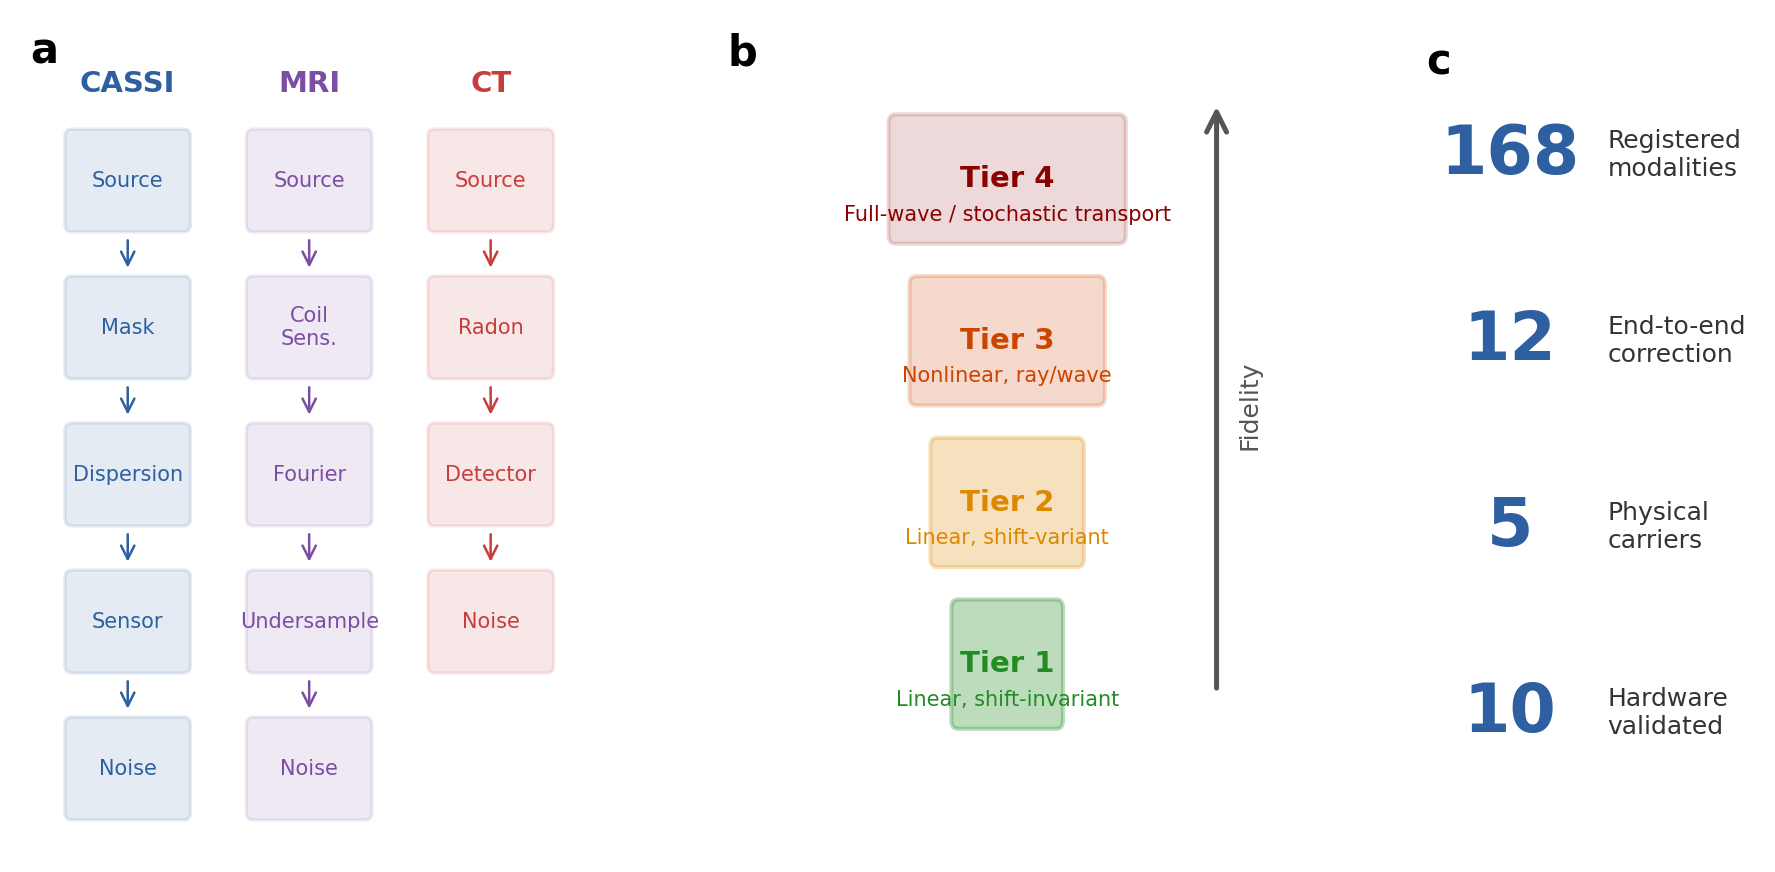
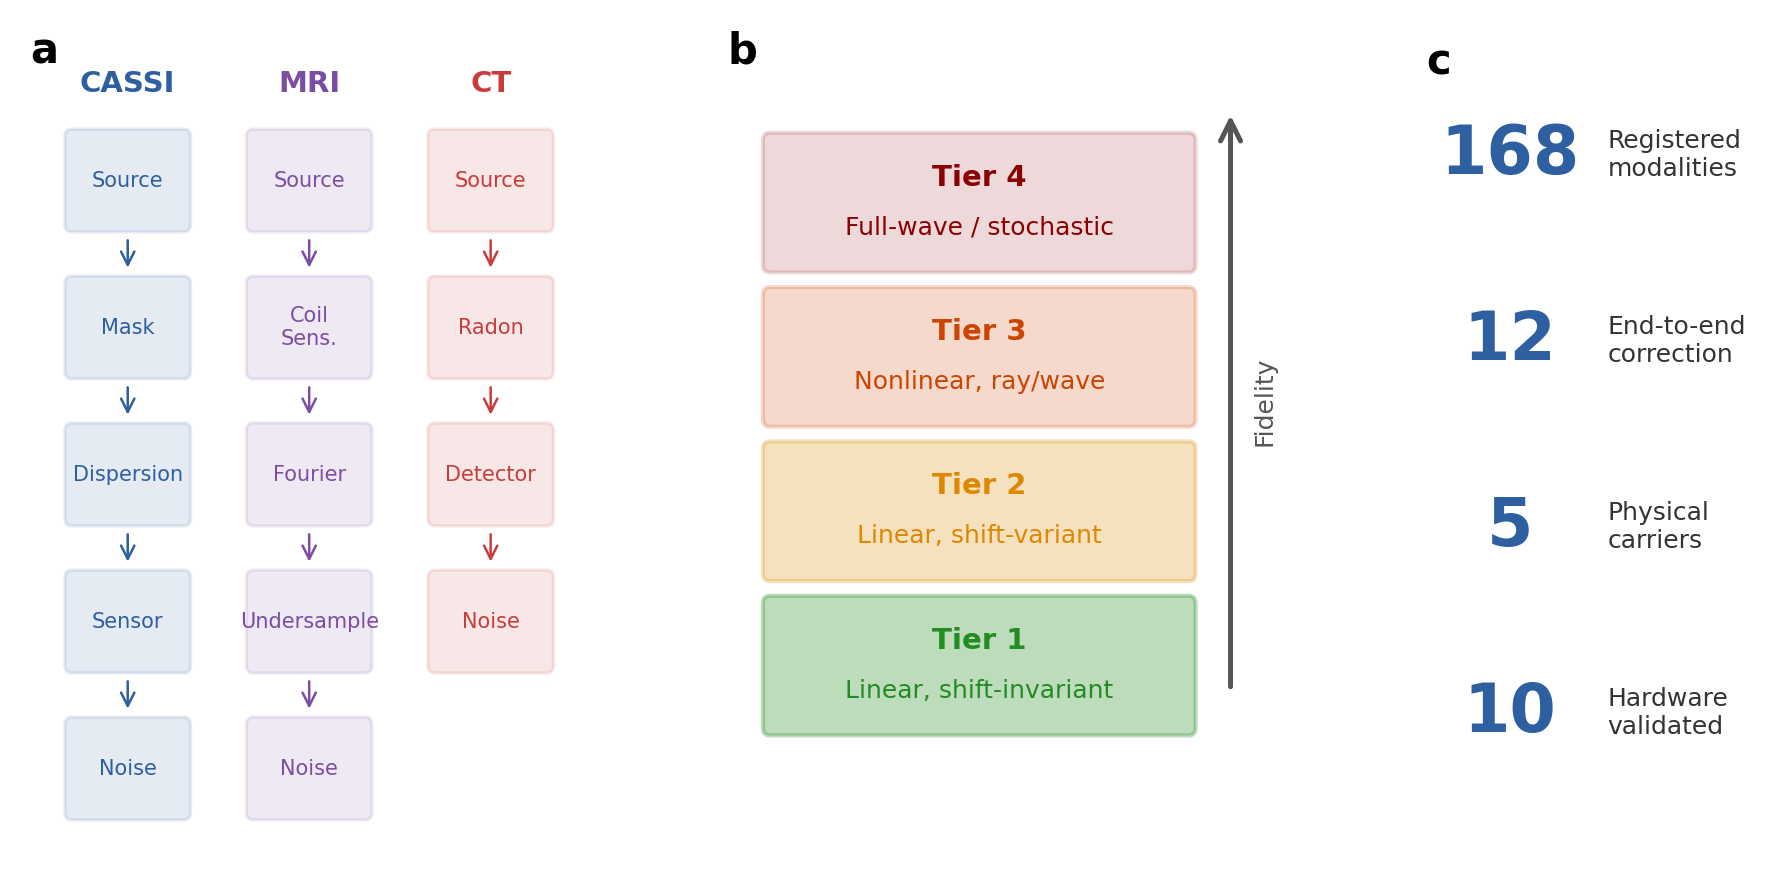
fix(fig2): uniform wide tier boxes so descriptions stay inside panel b

Changed region(s): [[0.4028, 0.1239, 0.7127, 0.867]]

diff --git a/papers/pwm_flagship/scripts/generate_all_figures.py b/papers/pwm_flagship/scripts/generate_all_figures.py
@@ -183,37 +183,43 @@ def fig2_operatorgraph():
                               arrowprops=dict(arrowstyle='<-', color=color,
                                               lw=0.6, mutation_scale=8))
 
-    # Panel b: Physics Fidelity Ladder
+    # Panel b: Physics Fidelity Ladder — uniform wide boxes, text fully inside
     ax_b = fig.add_subplot(gs[1])
     ax_b.set_xlim(0, 4)
-    ax_b.set_ylim(0, 5)
+    ax_b.set_ylim(0, 5.5)
     ax_b.axis('off')
-    ax_b.text(0, 4.8, 'b', fontsize=10, fontweight='bold')
+    ax_b.text(0, 5.3, 'b', fontsize=10, fontweight='bold')
 
     tiers = [
-        (4, 'Tier 4', 'Full-wave / stochastic transport', '#8B0000', 0.3),
+        (4, 'Tier 4', 'Full-wave / stochastic', '#8B0000', 0.3),
         (3, 'Tier 3', 'Nonlinear, ray/wave', '#CC4400', 0.4),
         (2, 'Tier 2', 'Linear, shift-variant', '#DD8800', 0.5),
         (1, 'Tier 1', 'Linear, shift-invariant', '#228B22', 0.6),
     ]
 
+    box_w = 3.0   # uniform width — wide enough for longest description
+    box_h = 0.85  # tall enough for two text lines
+    x_center = 1.8
+
     for tier_num, name, desc, color, alpha in tiers:
-        y = tier_num * 1.0 + 0.1
-        w = 0.4 + tier_num * 0.3
-        box = FancyBboxPatch((2.0 - w/2, y - 0.35), w, 0.7,
+        y = tier_num * 1.05 + 0.15
+        box = FancyBboxPatch((x_center - box_w / 2, y - box_h / 2), box_w, box_h,
                              boxstyle="round,pad=0.05",
                              facecolor=color, alpha=alpha * 0.5,
                              edgecolor=color, linewidth=1.0)
         ax_b.add_patch(box)
-        ax_b.text(2.0, y, f'{name}', ha='center', va='center',
+        # Tier name (bold) in upper half of box
+        ax_b.text(x_center, y + 0.17, name, ha='center', va='center',
                   fontsize=7, fontweight='bold', color=color)
-        ax_b.text(2.0, y - 0.22, desc, ha='center', va='center',
-                  fontsize=5, color=color)
+        # Description in lower half of box
+        ax_b.text(x_center, y - 0.17, desc, ha='center', va='center',
+                  fontsize=6, color=color)
 
-    ax_b.annotate('', xy=(3.5, 4.6), xytext=(3.5, 0.9),
+    # Fidelity arrow on the right
+    ax_b.annotate('', xy=(3.6, 5.0), xytext=(3.6, 1.0),
                   arrowprops=dict(arrowstyle='->', color='#555555',
                                   lw=1.2, mutation_scale=12))
-    ax_b.text(3.65, 2.7, 'Fidelity', ha='left', va='center',
+    ax_b.text(3.76, 3.0, 'Fidelity', ha='left', va='center',
               fontsize=6, color='#555555', rotation=90)
 
     # Panel c: Summary stats
